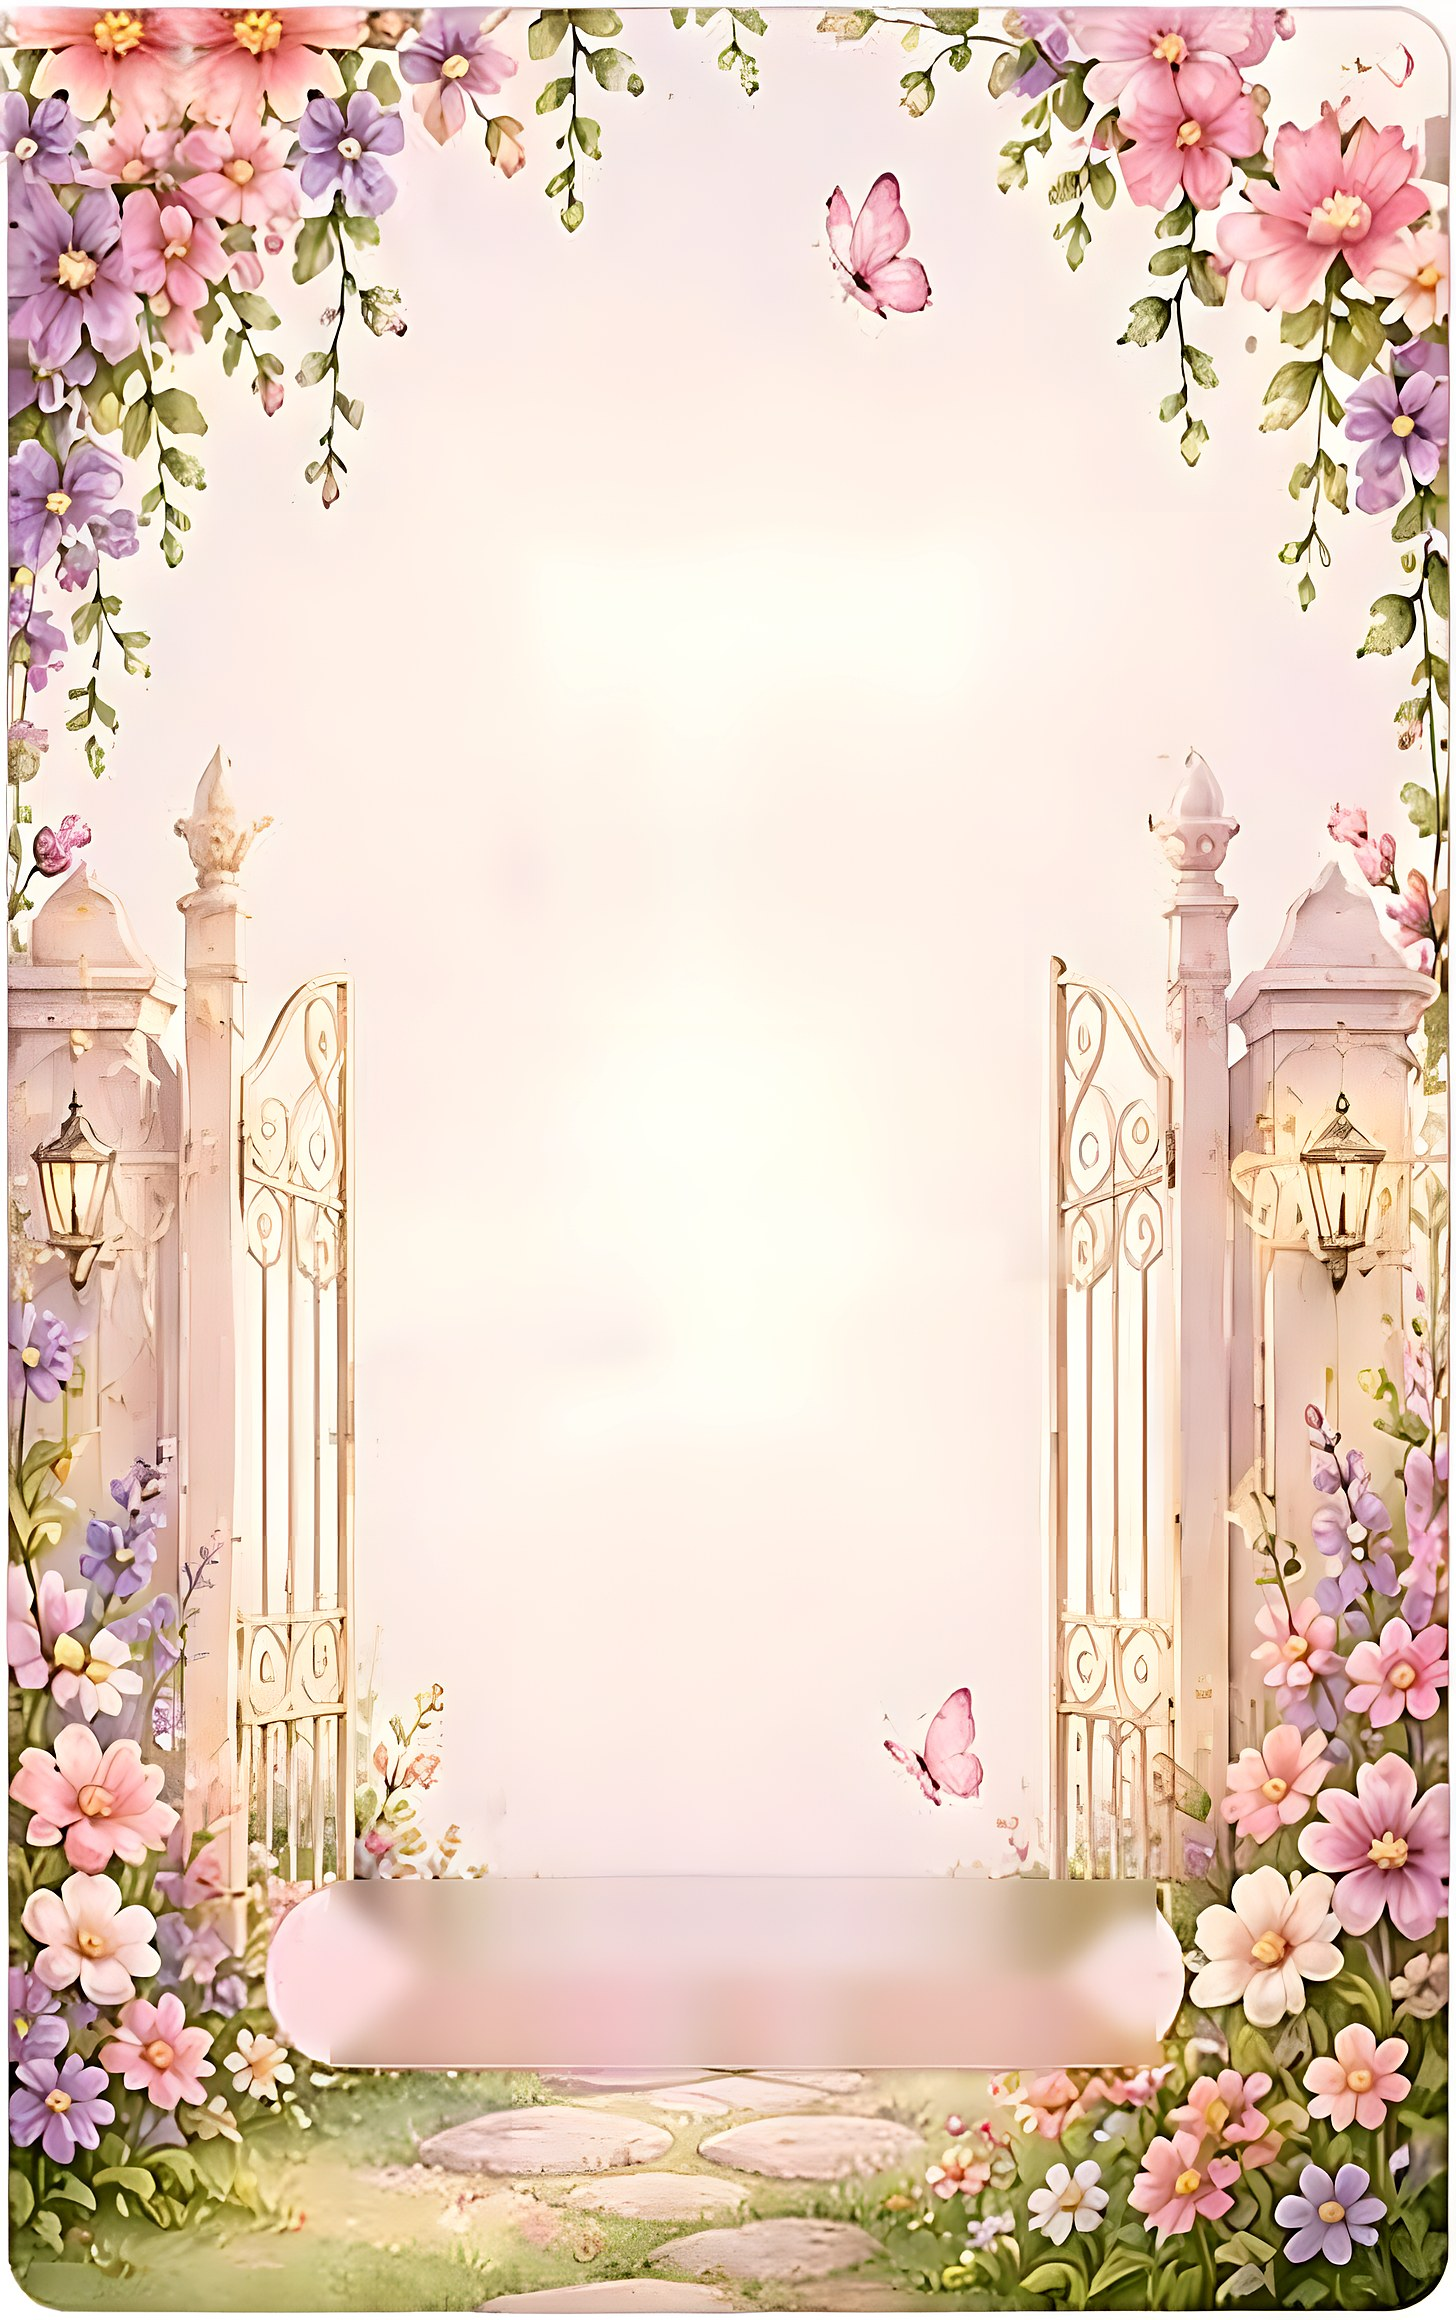
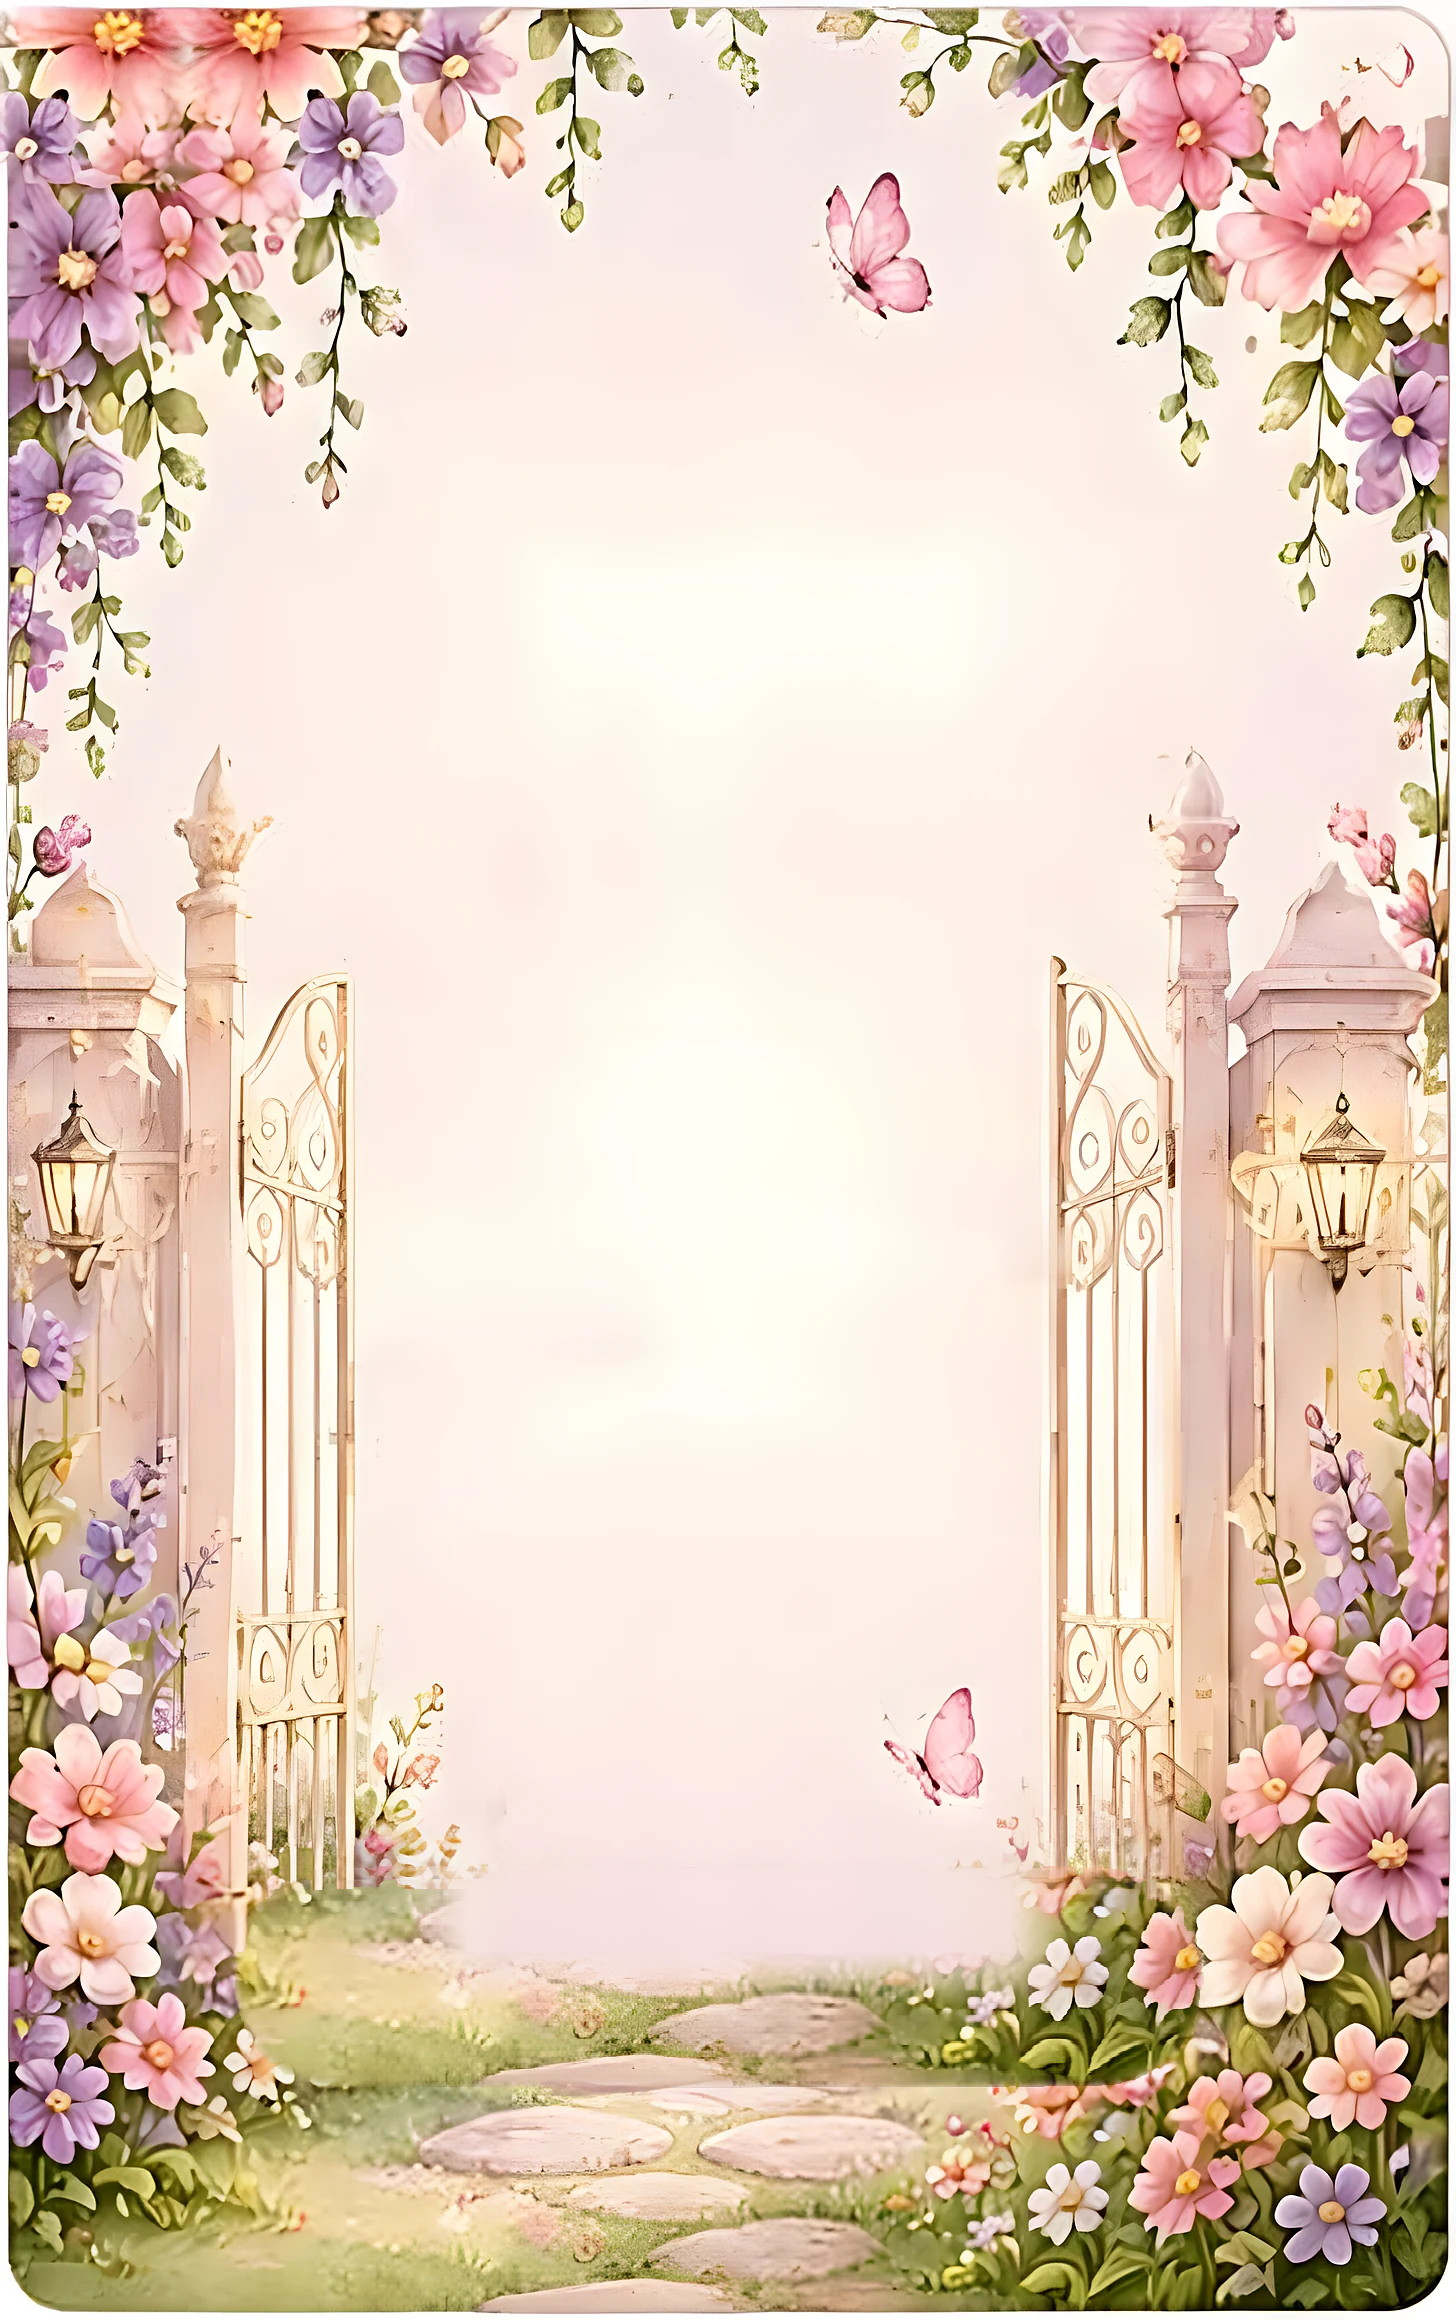
fix: reconstroi regiao do fundo na tela 1 e amplia borboleta da tela 6
Reconstrucao da area borrada atras do botao de entrada nas duas
versoes do fundo (webp e jpg). Borboleta da tela 6 ampliada de
11cqw para 16cqw, com drop-shadow para destacar do fundo.

Changed region(s): [[0.1545, 0.8069, 0.8345, 0.9]]

diff --git a/index.html b/index.html
@@ -198,7 +198,7 @@
           <div class="coracao cheio entra e4" style="top:72%" aria-hidden="true">
             <svg viewBox="0 0 24 22"><path d="M12 4.8C9.6 .9 3.4 2 3.4 6.8c0 3.7 5.2 7.6 8.6 10.4 3.4-2.8 8.6-6.7 8.6-10.4C20.6 2 14.4 .9 12 4.8z"/></svg>
           </div>
-          <span class="bfly pousa entra e5" style="--sz:11cqw; left:47%; top:14.5%" aria-hidden="true"><i class="asa asa-l"></i><i class="asa asa-r"></i></span>
+          <span class="bfly pousa entra e5" style="--sz:16cqw; left:47%; top:14.5%" aria-hidden="true"><i class="asa asa-l"></i><i class="asa asa-r"></i></span>
         </div>
       </div>
     </section>

diff --git a/css/style.css b/css/style.css
@@ -687,6 +687,7 @@ button.opcao {
 .bfly.pousa {
   translate: -50% -82%;
   transform: none;
+  filter: drop-shadow(0 2px 6px rgba(163, 78, 120, 0.3));
 }
 
 .tela.is-active .bfly.pousa.entra {
